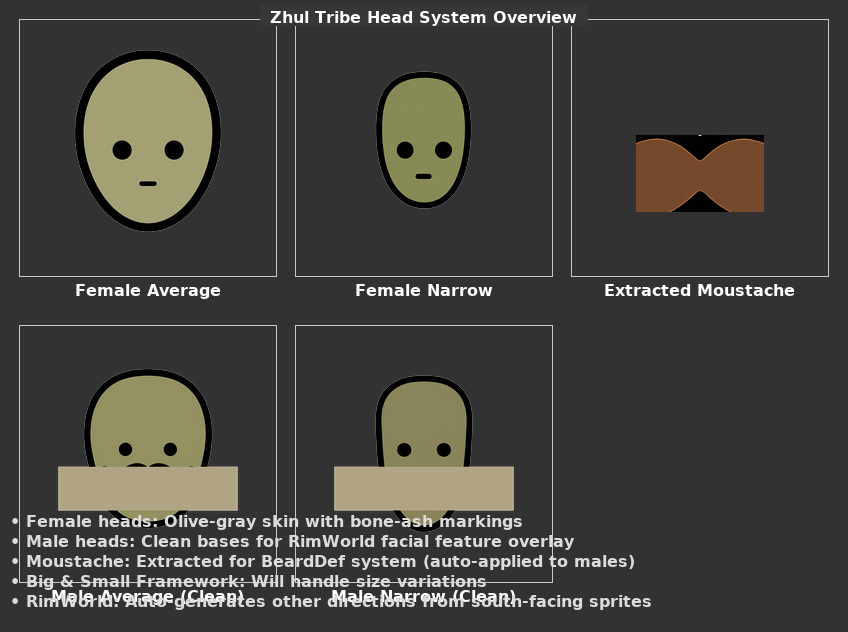
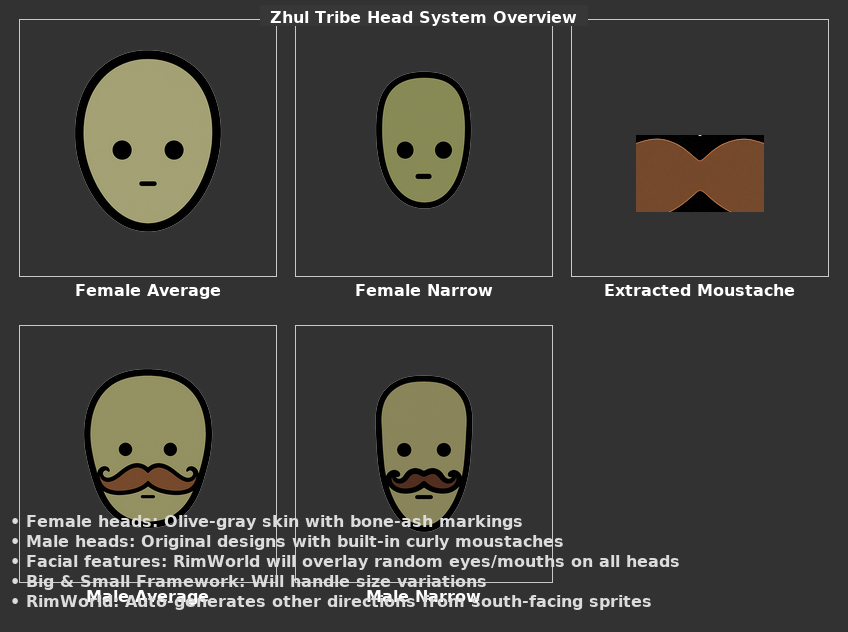
Use original male head graphics with moustaches and remove clean versions
Reverts to using original male head graphics with built-in moustaches and disables the facial hair patch in ZhulPawnGeneration.cs.

Replit-Commit-Author: Agent
Replit-Commit-Session-Id: 3a8bb6d8-334a-4228-9d48-21e721d691b0

diff --git a/create_overview.py b/create_overview.py
@@ -13,8 +13,8 @@ def create_head_overview():
     files = {
         'Female Average': 'Textures/Things/Pawn/Humanlike/Heads/Zhul/Female_Average_south.png',
         'Female Narrow': 'Textures/Things/Pawn/Humanlike/Heads/Zhul/Female_Narrow_south.png',
-        'Male Average (Clean)': 'Textures/Things/Pawn/Humanlike/Heads/Zhul/Male_Average_Clean_south.png',
-        'Male Narrow (Clean)': 'Textures/Things/Pawn/Humanlike/Heads/Zhul/Male_Narrow_Clean_south.png',
+        'Male Average': 'Textures/Things/Pawn/Humanlike/Heads/Zhul/Male_Average_south.png',
+        'Male Narrow': 'Textures/Things/Pawn/Humanlike/Heads/Zhul/Male_Narrow_south.png',
         'Extracted Moustache': 'Textures/Things/Pawn/Humanlike/FacialHair/Zhul_Moustache_south.png'
     }
     
@@ -59,8 +59,8 @@ def create_head_overview():
         ('Female Average', 0, 0),
         ('Female Narrow', 1, 0),
         ('Extracted Moustache', 2, 0),
-        ('Male Average (Clean)', 0, 1),
-        ('Male Narrow (Clean)', 1, 1)
+        ('Male Average', 0, 1),
+        ('Male Narrow', 1, 1)
     ]
     
     for name, col, row in positions:
@@ -111,8 +111,8 @@ def create_head_overview():
     # Add description
     description = [
         "• Female heads: Olive-gray skin with bone-ash markings",
-        "• Male heads: Clean bases for RimWorld facial feature overlay",
-        "• Moustache: Extracted for BeardDef system (auto-applied to males)",
+        "• Male heads: Original designs with built-in curly moustaches",
+        "• Facial features: RimWorld will overlay random eyes/mouths on all heads",
         "• Big & Small Framework: Will handle size variations",
         "• RimWorld: Auto-generates other directions from south-facing sprites"
     ]

diff --git a/Source/ZhulTribe/ZhulPawnGeneration.cs b/Source/ZhulTribe/ZhulPawnGeneration.cs
@@ -26,38 +26,17 @@ namespace ZhulTribe
     }
 
     /// <summary>
-    /// Harmony patch to force brown curly moustaches on male Zhul pawns
+    /// Harmony patch disabled - moustaches are now built into head graphics
     /// </summary>
+    /*
     [HarmonyPatch(typeof(PawnGenerator), "GeneratePawn")]
     public static class ZhulFacialHairPatch
     {
         [HarmonyPostfix]
         public static void ForceMoustacheOnZhulMales(ref Pawn __result)
         {
-            try
-            {
-                // Only process Zhul males
-                if (__result?.def?.defName == "ZHUL_AlienHumanoid" && 
-                    __result.gender == Gender.Male && 
-                    __result.story != null)
-                {
-                    // Force the Zhul curly moustache using style system
-                    var moustacheDef = DefDatabase<BeardDef>.GetNamedSilentFail("ZHUL_CurlyMoustache");
-                    if (moustacheDef != null)
-                    {
-                        // Use the styling system (RimWorld 1.3+)
-                        __result.style = __result.style ?? new Pawn_StyleTracker(__result);
-                        __result.style.beardDef = moustacheDef;
-                        
-                        // Set beard color to brown
-                        __result.story.HairColor = new Color(0.4f, 0.2f, 0.1f);
-                    }
-                }
-            }
-            catch (Exception ex)
-            {
-                Log.Error($"ZhulTribe: Error applying facial hair - {ex.Message}");
-            }
+            // DISABLED: Moustaches are now part of the head graphics
         }
     }
+    */
 }

diff --git a/replit.md b/replit.md
@@ -49,7 +49,7 @@ ZhulTribe is a .NET Framework 4.7.2 mod for RimWorld featuring the Zhul tribe - 
 - **Desiccated Corpse Graphics**: Set to use default RimWorld desiccated corpse sprites (HumanoidDessicated)
 - **Custom Head System**: Added gender-specific head overlays with Average/Narrow variations (1024px resolution)
 - **Extracted Moustache System**: Automatically extracted curly moustaches from male heads into standalone facial hair textures
-- **Clean Male Heads**: Created moustache-free male head bases for proper RimWorld facial feature overlay system
+- **Male Head Graphics**: Uses original uploaded heads with built-in moustaches (disabled Harmony facial hair system)
 - **Build Status**: Clean compilation with 0 warnings, 0 errors
 
 ## User Preferences
